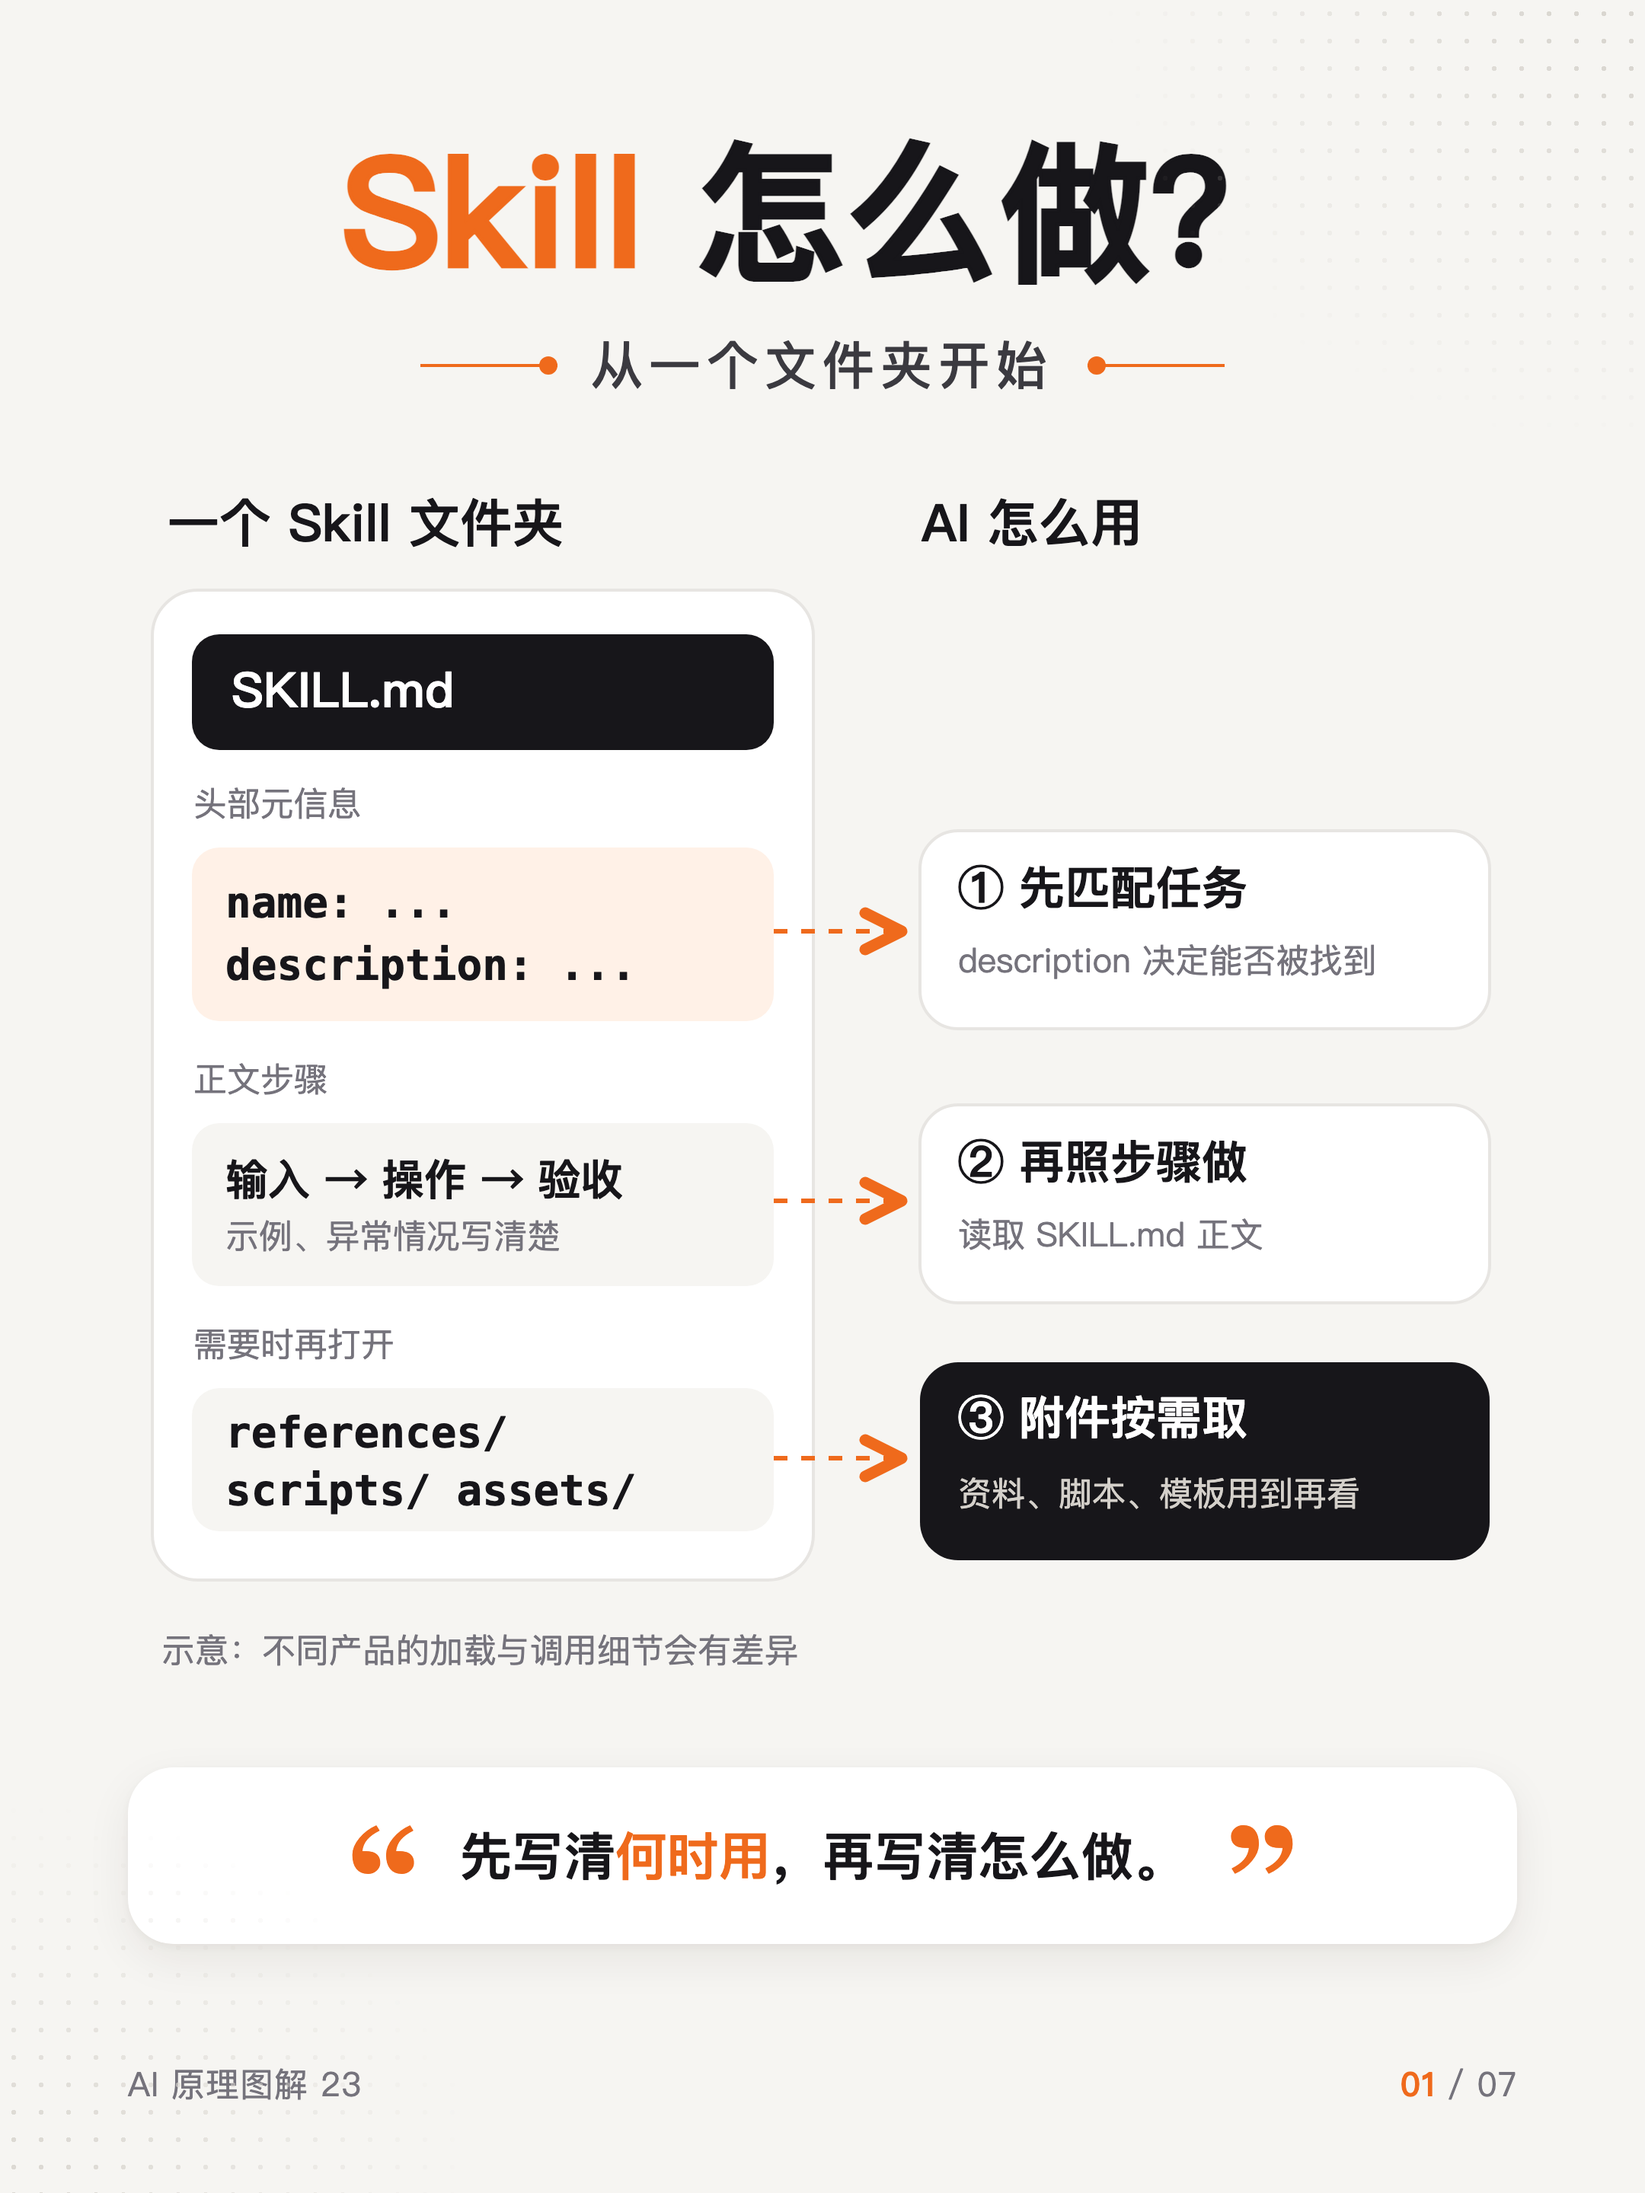
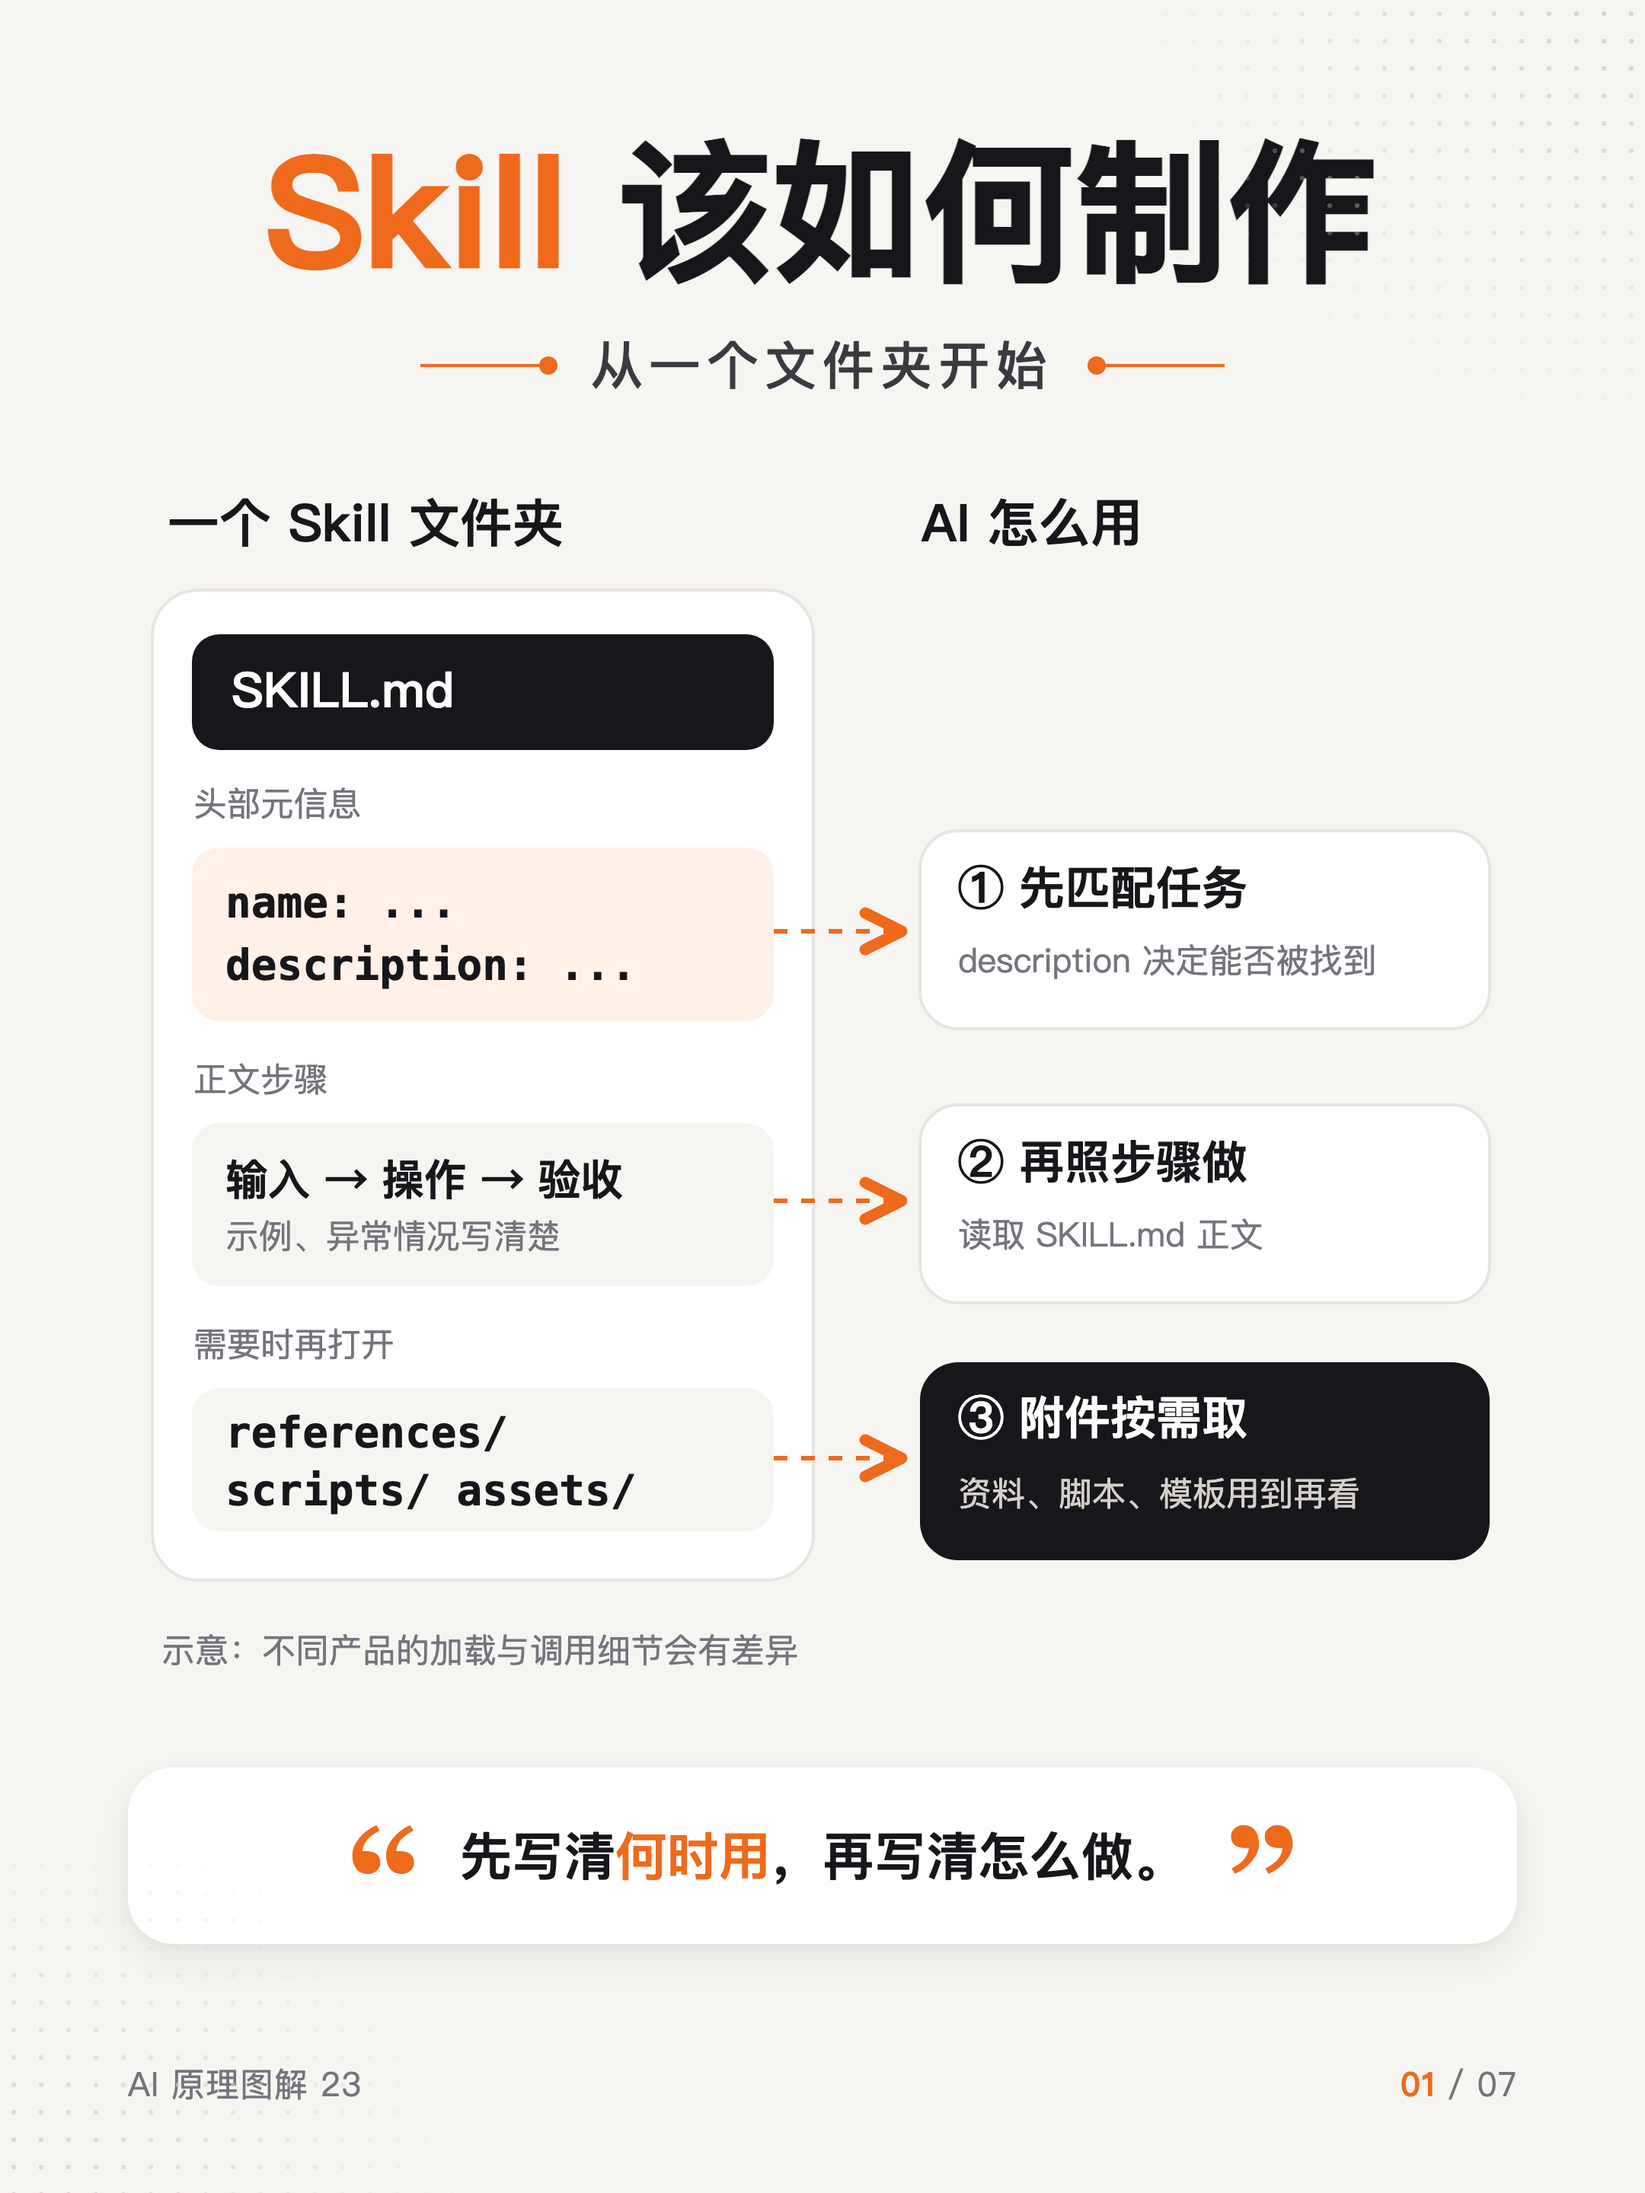
fix: clarify diagram cover titles

Changed region(s): [[0.1551, 0.0625, 0.8375, 0.125]]

diff --git a/23-Skill制作/Skill制作.html b/23-Skill制作/Skill制作.html
@@ -373,7 +373,7 @@ body.only .page:not(.show) { display: none; }
 
 <!-- PAGES -->
 <section class="page" id="p1">
-  <h1 class="cover-title"><span class="o">Skill</span> 怎么做？</h1>
+  <h1 class="cover-title"><span class="o">Skill</span> 该如何制作</h1>
   <div class="cover-sub"><i class="l"></i>从一个文件夹开始<i class="r"></i></div>
   <svg class="skill-map" viewBox="0 0 912 815" aria-label="Skill 文件结构与按需加载流程图">
     <defs><marker id="skill-arrow" markerWidth="12" markerHeight="12" refX="9" refY="6" orient="auto"><path d="M2 2 L10 6 L2 10" fill="none" stroke="#ef6a1c" stroke-width="2.5" stroke-linecap="round" stroke-linejoin="round"/></marker></defs>
@@ -499,7 +499,7 @@ body.only .page:not(.show) { display: none; }
     <div class="row"><b>入口</b>：描述写出用途和触发场景</div>
     <div class="row"><b>验证</b>：用真实说法测试触发，用真实材料验收结果</div>
   </div>
-  <p class="src">资料：Agent Skills《Specification》；OpenAI《Build skills》；Anthropic《Agent Skills》<br>下一篇：Agent 架构解析</p>
+  <p class="src">资料：Agent Skills《Specification》；OpenAI《Build skills》；Anthropic《Agent Skills》<br>下一篇：Agent 的架构解析</p>
   <div class="foot"><span>AI 原理图解 23</span><span class="pn"><em>07</em> / 07</span></div>
 </section>
 

diff --git a/26-通用与个人Agent/通用与个人Agent.html b/26-通用与个人Agent/通用与个人Agent.html
@@ -396,8 +396,8 @@ body.only .page:not(.show) { display: none; }
 </svg>
 
 <section class="page" id="p1">
-  <div class="cover-title"><span class="o">Agent</span> 怎么选？</div>
-  <div class="cover-sub"><i class="l"></i>通用任务与个人助手<i class="r"></i></div>
+  <div class="cover-title"><span class="o">通用与个人</span> Agent</div>
+  <div class="cover-sub"><i class="l"></i>区别与代表<i class="r"></i></div>
   <div class="gp-source"><div class="a">同一个请求：帮我把事办完</div><div class="b">需求不同，产品的重心会不同</div></div>
   <div class="gp-fork"><i></i><i></i></div>
   <div class="gp-cols">

diff --git a/24-Agent架构/Agent架构.html b/24-Agent架构/Agent架构.html
@@ -389,7 +389,7 @@ body.only .page:not(.show) { display: none; }
 </svg>
 
 <section class="page" id="p1">
-  <h1 class="cover-title"><span class="o">Agent</span> 怎么搭？</h1>
+  <h1 class="cover-title"><span class="o">Agent</span> 的架构解析</h1>
   <div class="cover-sub"><i class="l"></i>一张图拆开内部结构<i class="r"></i></div>
   <div class="arch">
     <div class="task-in"><b>用户交来任务</b><span>例如：查订单并处理退款</span></div>

diff --git a/25-Agent基准评测/Agent基准评测.html b/25-Agent基准评测/Agent基准评测.html
@@ -388,7 +388,7 @@ body.only .page:not(.show) { display: none; }
 </svg>
 
 <section class="page" id="p1">
-  <h1 class="cover-title"><span class="o">Agent</span>高分靠谱吗？</h1>
+  <h1 class="cover-title"><span class="o">Agent</span> 的基准评测</h1>
   <div class="cover-sub"><i class="l"></i>先看它考了什么<i class="r"></i></div>
   <div class="bm-map">
     <svg viewBox="0 0 912 800" aria-hidden="true">

diff --git a/README.md b/README.md
@@ -36,10 +36,10 @@
 | 20 | [知识库怎么搭？](20-LLM知识库搭建) | 搭建流程图 |
 | 21 | [AI 怎么记住事？](21-AI记忆) | 跨会话记忆分流图 |
 | 22 | [AI 怎么动手？](22-工具调用) | 模型与工具时序图 |
-| 23 | [Skill 该如何制作？](23-Skill制作) | Skill 结构与加载图 |
-| 24 | [Agent 架构解析](24-Agent架构) | Agent 分层架构图 |
-| 25 | [Benchmark：Agent 怎么评测？](25-Agent基准评测) | 基准任务与判分图 |
-| 26 | [通用 Agent 与个人 Agent](26-通用与个人Agent) | 两种产品取向对照图 |
+| 23 | [Skill 该如何制作](23-Skill制作) | Skill 结构与加载图 |
+| 24 | [Agent 的架构解析](24-Agent架构) | Agent 分层架构图 |
+| 25 | [Agent 的基准评测](25-Agent基准评测) | 基准任务与判分图 |
+| 26 | [通用与个人 Agent](26-通用与个人Agent) | 两种产品取向对照图 |
 
 编号是整个系列的排期编号，26 套图组已全部完成。阅读路径是"看清这一行 → 模型怎么来的 → 怎么用上它 → 让它干好活 → 让它自己干 → 看懂并搭好 Agent"。图组完成不代表已经发布。
 
